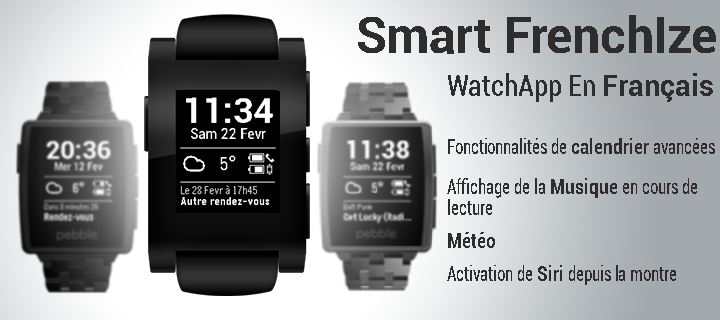
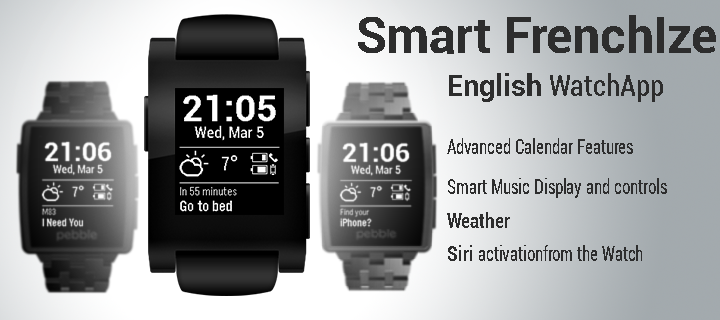
Translated to English
Translated to English, started to edit ReadMe, and added screenshots

diff --git a/src/strings.h b/src/strings.h
@@ -7,30 +7,30 @@
 
 // Lists of translations
           // Translation for DAYS goes here, starting on SUNDAY. Up to 3 letters per word 
-static const char *day_of_week[] = {"Dim", "Lun", "Mar", "Mer", "Jeu", "Ven", "Sam"};
+static const char *day_of_week[] = {"Sun", "Mon", "Tue", "Wed", "Thu", "Fri", "Sat"};
 
           // Translation for MONTHS goes here. They can have up to 4 letters per word
-static const char *month_of_year[] = { "Janv", "Fevr", "Mars", "Avr", "Mai", "Juin", "Juil", "Aout", "Sept", "Oct", "Nov", "Dec"};
+static const char *month_of_year[] = { "Jan", "Febr", "Mar", "Apr", "May", "June", "July", "Aug", "Sept", "Oct", "Nov", "Dec"};
 		  // This is the number of days per month. I don't think this has to be changed :) 
 static const int days_per_month [12] = {31,28,31,30,31,30,31,31,30,31,30,31};
 		  // This is the header that appears when days are not far away from now. 
 		  // 		E.g: If the event is in one day, this will display "Tomorrow"
-static const char *days_from_today[] = { "Demain", "Après-demain", "Dans 3 jours", "Dans 4 jours" };
+static const char *days_from_today[] = { "Tomorrow", "In 2 days", "In 3 days", "In 4 days" };
 
 
 // These are the main translation strings
 // Change the "Translation" Column
 
-//		NAME of the strings 		 Translation 			   English Translation
-#define STRING_UPDATING				"Mise à jour..."		// "Updating..."
-#define STRING_CONNECTED 			"Connecté"				// "Connected"
-#define STRING_DISCONNECTED			"Déconnecté"			// "Disconnected"
-#define STRING_DEFAULT_CALENDAR_1	"Aucun"					// "No"
-#define STRING_DEFAULT_CALENDAR_2	"Rendez-Vous"			// "Appointment"
-#define STRING_DEFAULT_MUSIC_1		"Aucune lecture"		// "Nothing"
-#define STRING_DEFAULT_MUSIC_2		"En cours"				// "Playing"
-#define STRING_FIND_IPHONE_CONF_1	"Faire sonner"			// "Find your"
-#define STRING_FIND_IPHONE_CONF_2	"l'iPhone ?"			// "iPhone?"
+//		NAME of the strings 		 Translation
+#define STRING_UPDATING				"Updating..."
+#define STRING_CONNECTED 			"Connected"
+#define STRING_DISCONNECTED			"Disconnected"
+#define STRING_DEFAULT_CALENDAR_1	"No"
+#define STRING_DEFAULT_CALENDAR_2	"Appointment"
+#define STRING_DEFAULT_MUSIC_1		"Nothing is"
+#define STRING_DEFAULT_MUSIC_2		"Playing"
+#define STRING_FIND_IPHONE_CONF_1	"Find your"
+#define STRING_FIND_IPHONE_CONF_2	"iPhone?"
 
 // Calendar STRINGS. 
 /* WARNING! YOU NEED TO KEEP THE ORDER AND NUMBER of the variables like "%i" (for int), "%02i" (for two digits int), "%s" for string etc... 
@@ -41,15 +41,15 @@ static const char *days_from_today[] = { "Demain", "Après-demain", "Dans 3 jour
 		and "For 2 hours" (the event has been going for 2 hours already).
 		It's used in the STRING_EVENT_HOUR, STRING_EVENT_HOURS, STRING_EVENT_MINUTE, STRING_EVENT_MINUTES strings
 	*/
-static const char *before_after[] = {"Depuis", "Dans"};
+static const char *before_after[] = {"For", "In"};
 
-//		NAME of the strings 		 Translation 			   English Translation 		   E.g of Diplay (it sounds bad in DAY MONTH frormat)
-#define STRING_EVENT_IS_PAST		"Depuis le %i %s"		// "Since %i %s"			// "Since 1 Nov"
-#define STRING_EVENT_FUTURE_GLOBAL	"Le %i %s à %ih%02i"	// "%i %s at %i:%02i"		// "1 Nov at 08:00"
-#define STRING_EVENT_FUTURE_SOON	"%s, à %ih%02i"			// "%s, at %i:%02i"			// "Tomorrow, at 9:25"
-#define STRING_NOW					"Maintenant!"			// "Now!"					// "Now!"
-#define STRING_EVENT_HOUR			"%s 1 heure"			// "%s 1 hour"				// "In 1 hour"
-#define STRING_EVENT_HOURS			"%s %i heures"			// "%s %i hours"			// "In 3 hours"
-#define STRING_EVENT_MINUTE			"%s 1 minute"			// "%s 1 minute"			// "In 1 minute"
-#define STRING_EVENT_MINUTES		"%s %i minutes"			// "%s %i minutes"			// "In 48 minutes"
-#define STRING_EVENT_MIXED			"%s %ih %i"				// "%s %ih %i min"			// "In 1h 23 min"
+//		NAME of the strings 		English Translation 
+#define STRING_EVENT_IS_PAST		"Started %s %i"		
+#define STRING_EVENT_FUTURE_GLOBAL	"%s %i at %i:%02i"	
+#define STRING_EVENT_FUTURE_SOON	"%s, at %i:%02i"	
+#define STRING_NOW					"Now!"				
+#define STRING_EVENT_HOUR			"%s 1 hour"			
+#define STRING_EVENT_HOURS			"%s %i hours"		
+#define STRING_EVENT_MINUTE			"%s 1 minute"		
+#define STRING_EVENT_MINUTES		"%s %i minutes"		
+#define STRING_EVENT_MIXED			"%s %ih %i min"		

diff --git a/src/sm_watchapp.c b/src/sm_watchapp.c
@@ -150,12 +150,12 @@ static void apptDisplay(char *appt_string) {
 	
 		//	Determine the variables
 	static int appt_day;
-					strncpy(stringBuffer, appt_string,2);
+					strncpy(stringBuffer, appt_string+3,2);
 					appt_day = string2number(stringBuffer);
 					APP_LOG(APP_LOG_LEVEL_DEBUG,"appt_day is    %i",appt_day);
 
 	static int appt_month;
-					strncpy(stringBuffer, appt_string+3,2);
+					strncpy(stringBuffer, appt_string,2);
 					appt_month = string2number(stringBuffer);
 					APP_LOG(APP_LOG_LEVEL_DEBUG,"appt_month is  %i",appt_month);
 
@@ -211,11 +211,11 @@ static void apptDisplay(char *appt_string) {
 		}
 	}
 				if (event_is_past) {
-					snprintf(date_of_appt,30, STRING_EVENT_IS_PAST,appt_day, month_of_year[interm]);
+					snprintf(date_of_appt,30, STRING_EVENT_IS_PAST,month_of_year[interm], appt_day);
 					event_is_all_day = true;
 					APP_LOG(APP_LOG_LEVEL_DEBUG,"Event has started in the past, not today");
 				} else if (days_difference > 4) {
-					snprintf(date_of_appt, 30, STRING_EVENT_FUTURE_GLOBAL,appt_day, month_of_year[interm], appt_hour,appt_minute);
+					snprintf(date_of_appt, 30, STRING_EVENT_FUTURE_GLOBAL,month_of_year[interm], appt_day, appt_hour,appt_minute);
 					event_is_today = false; // Just so we don't write the time again
 					time_string[0] = '\0';
 				} else if (days_difference != 0) {
@@ -517,9 +517,9 @@ if (((units_changed & MINUTE_UNIT) == MINUTE_UNIT) || (!Watch_Face_Initialized) 
 	 	// Print the result
 
 
-   snprintf(date_text, sizeof(date_text), "%s %i %s", day_of_week[day_int], tick_time->tm_mday, month_of_year[month_int]);
+   snprintf(date_text, sizeof(date_text), "%s, %s %i", day_of_week[day_int], month_of_year[month_int], tick_time->tm_mday);
    text_layer_set_text(text_date_layer, date_text);
-	  APP_LOG(APP_LOG_LEVEL_INFO, "Displayed date : [%s %i %s]", day_of_week[day_int], tick_time->tm_mday, month_of_year[month_int]);
+	  APP_LOG(APP_LOG_LEVEL_INFO, "Displayed date : [%s, %s %i]", day_of_week[day_int], month_of_year[month_int], tick_time->tm_mday);
   	}
 
   if (clock_is_24h_style()) {

diff --git a/README.md b/README.md
@@ -2,34 +2,46 @@ SmartFrenchIze Watch App
 =====================
 ![Smartwatch+ Banner](https://raw.github.com/Allezxandre/SmartStatus-AppStore/master/AppStore%20Assets/SmartFrenchIze-Header.png)
 
-### Téléchargement
-Pour télécharger la **dernière version** : [suivez ce lien](https://github.com/Allezxandre/Smart-FrenchIze-Jailbreak/releases)
+### Download
+[Follow this link](https://github.com/Allezxandre/Smart-FrenchIze/releases) for the latest build
 
-**Attention**, cette Watchface est compatible avec la version AppStore de Smartwatch+ **ET** la version Cydia (pour iOS _jailbreaké_), cependant le bouton du haut (activer Siri) ne fonctionne qu'**avec la version Cydia**
+**Warning**, This WatchApp is **ONLY** compatible with the Cydia version of SmartWatch+
 
-Pour télécharger Smartwatch+ sur iPhone, vous pouvez vous rendre sur : 
-- L'[AppStore](https://itunes.apple.com/us/app/smartwatch+-for-pebble/id711357931?ls=1&mt=8)
+Need Smartwatch+ on your iPhone? Here you go : 
+- [AppStore](https://itunes.apple.com/us/app/smartwatch+-for-pebble/id711357931?ls=1&mt=8)
 - [Cydia](http://moreinfo.thebigboss.org/moreinfo/depiction.php?file=smartwatchplusDp)
 
 
-### Présentation
+### Features
 
 Ceci est une version modifiée de la WatchApp de Robhh. C'est une *WatchApp* se connectant à l'iPhone et affichant des informations, le tout intelligement, et en français.
-Bien sur, cette version modifiée inclut en plus les fonctionnalités de la version originale de base :
-* Météo actuelle
-* Batterie iPhone
-* Batterie Pebble
-* Musique à l'écoute
-* Prochain rendez-vous
+This is a custom version of Robhh's SmartStatus WatchApp. 
+#### Original SmartStatus features
+* Weather Forecast
+* iPhone Battery
+* Pebble Battery
+* Now playing
+* Next Event on iPhone Calendar
 
-### Améliorations apportées par rapport à l’originale : 
-* Traduction en Français… DUH ! Ça inclut la date, le format de la date, les textes, et autres ! 
-* L’application est désormais une **Watchface**, plus une app comme avant. 
-* Comme les boutons ne sont plus accessibles en mode Watchface, le calendrier est toujours affiché, et la musique s’affiche toutes les cinq secondes dès qu’on met Play (avec des belles animations)
-* Le calendrier affiche maintenant le temps avant le prochain événement s’il a lieu aujourd’hui, sinon, il affiche la date comme avant.
-* La montre vibre 2 fois 15 minutes avant le prochain évènement
-* La montre vibre 1 fois au moment de l'évènement
-* Désormais, le calendrier adapte la taille du texte à la fenêtre
-(il y a beaucoup d’autres améliorations sur le calendrier, je vous laisse les découvrir :smile: )
+#### Improvements over the original version :
+Vibrations lors d'une (dis)connexion
+Vibrate on (dis)connect
+Improved display system
+Smart Buttons :
+
+#### Button Uses
+###### When the iPhone is **connected** to the Watch
+* UP — Bring up Siri on the iPhone
+* UP (_long **3** seconds hold_) — Find your iPhone (Handy when you misplaced it)
+* MIDDLE — Display Weather details, and then update it
+* DOWN — Next Track
+* DOWN (_long **0.5** seconds hold_) — Play/Pause iPhone Music
+
+###### Quand l'iPhone est **déconnecté**
+* UP — Nothing
+* UP (_appui long de **3** secondes_) — Reminds you you're disconnected, but still tries to fetch for iPhone
+* MIDDLE — Display Weather details
+* DOWN — Turn off the Pebble's Light
+* DOWN (_long **0.5** seconds hold_) — Turn on the Pebble's Light (Really handy overnight! :crescent_moon:)
 
 ![SmartStatus watchapp](https://raw.github.com/Allezxandre/SmartStatus-AppStore/master/SmartStatus.jpg)
